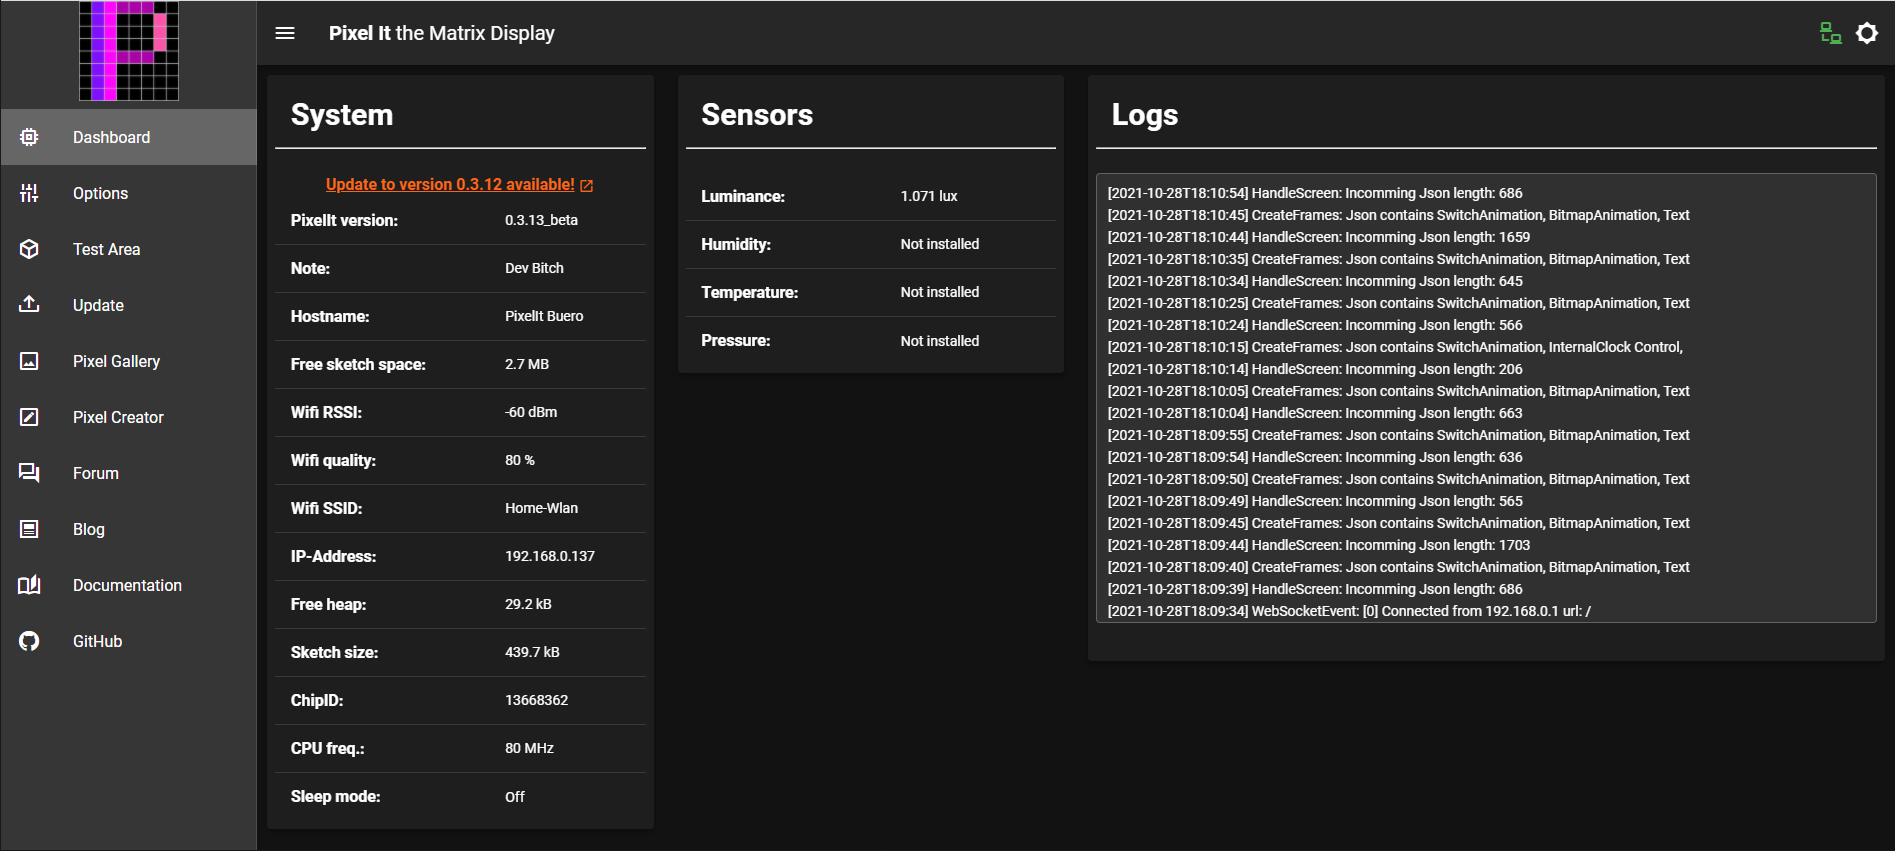
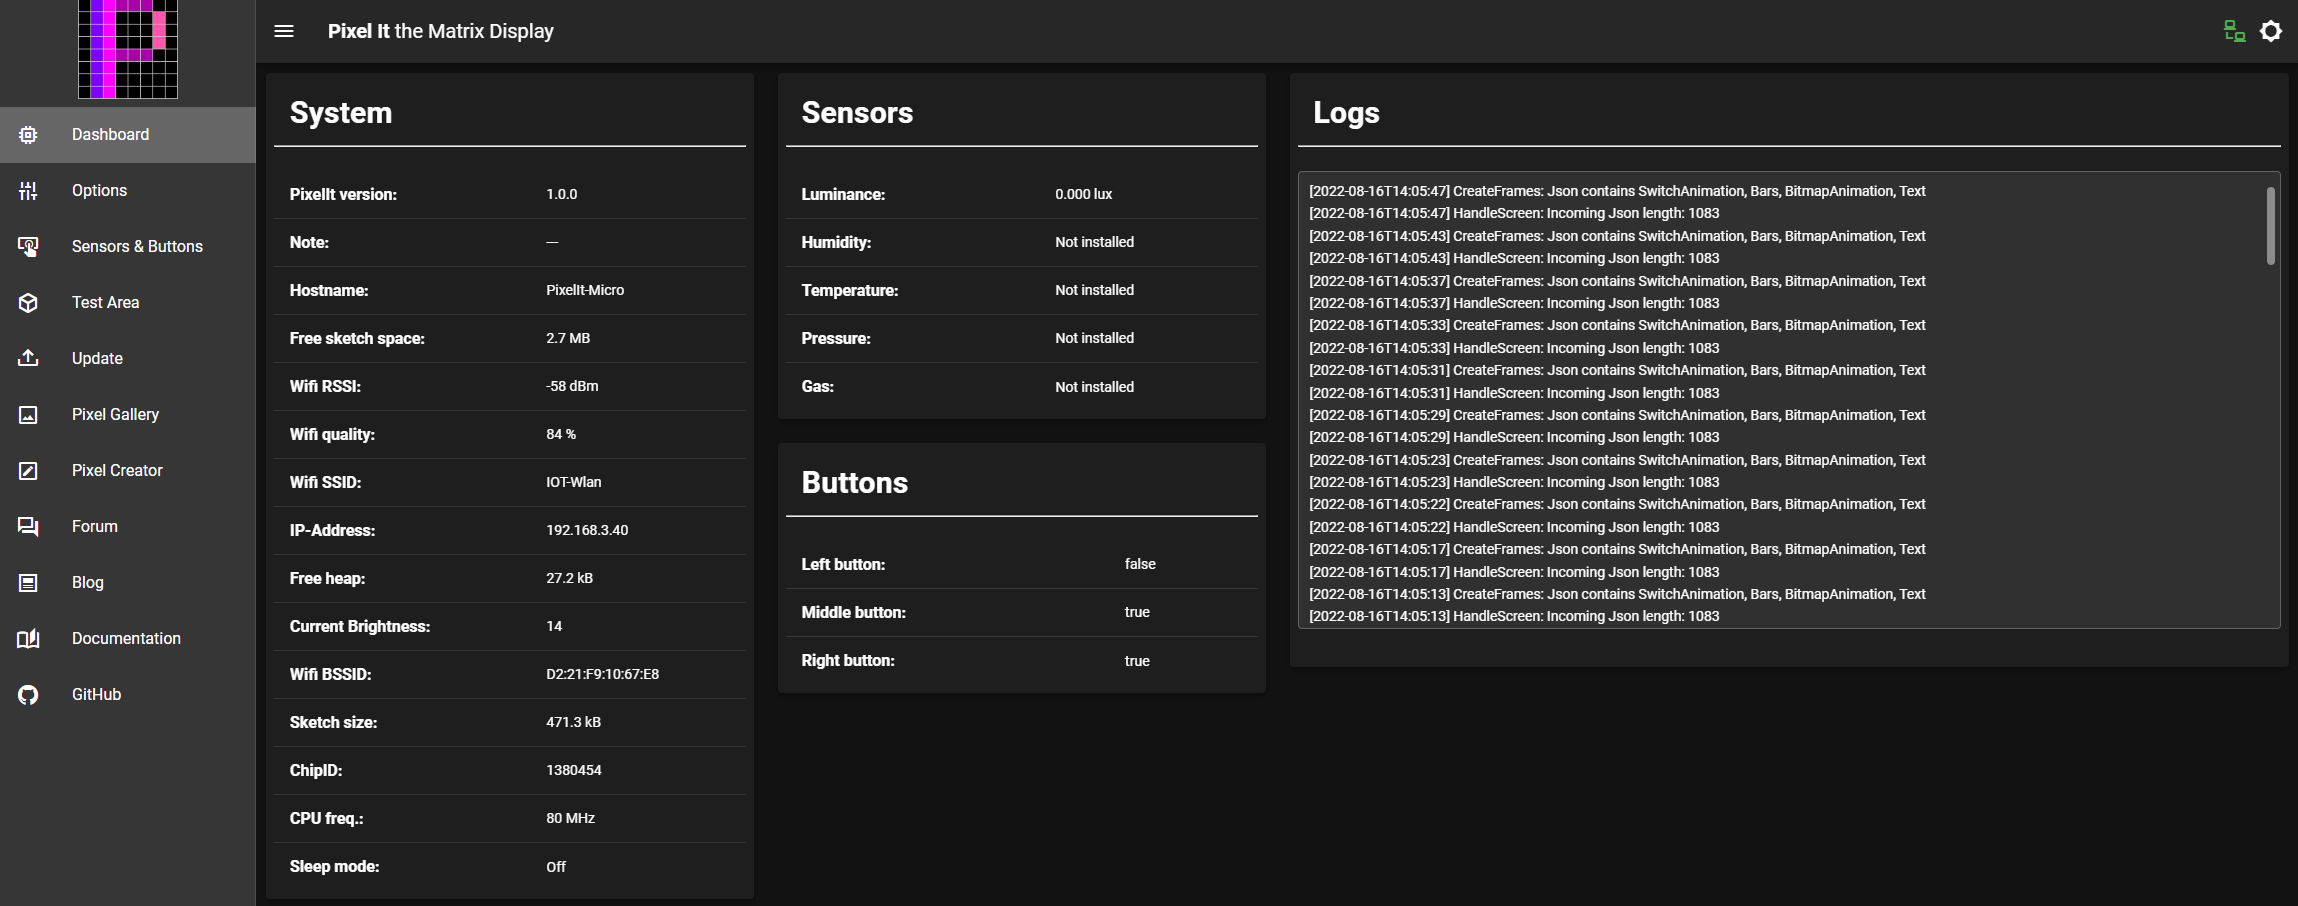
update WebUI screens

diff --git a/src/webinterface.md b/src/webinterface.md
@@ -1,9 +1,11 @@
 # Webinterface 
-The web interface provides you with items [Dashboard](#webinterface), [Options](#webinterface), [Test Area](#test-area) and Update.
+The web interface provides you with items [Dashboard](#webinterface), [Options](#webinterface), [Sesnors & Buttons](#sesnors-buttons), [Test Area](#test-area) and Update.
 
 ### Dashboard
 ![](/webinterface_main.png)
 ### Options
 ![](/webinterface_config.png)
+### Sesnors & Buttons
+![](/webinterface_sesnors_buttons.png)
 ### Test Area
 ![](/webinterface_test.png)
